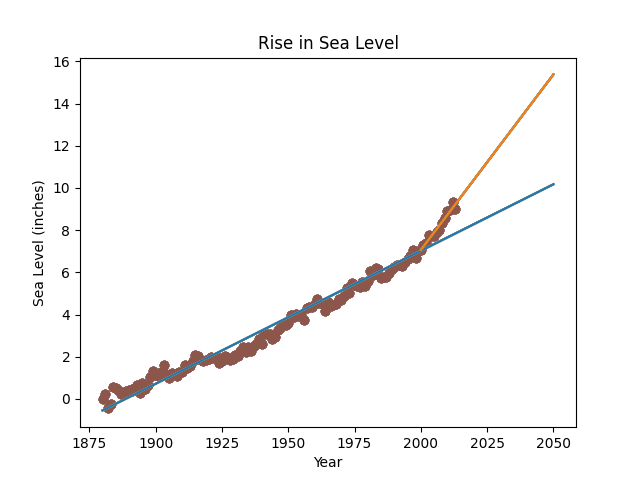
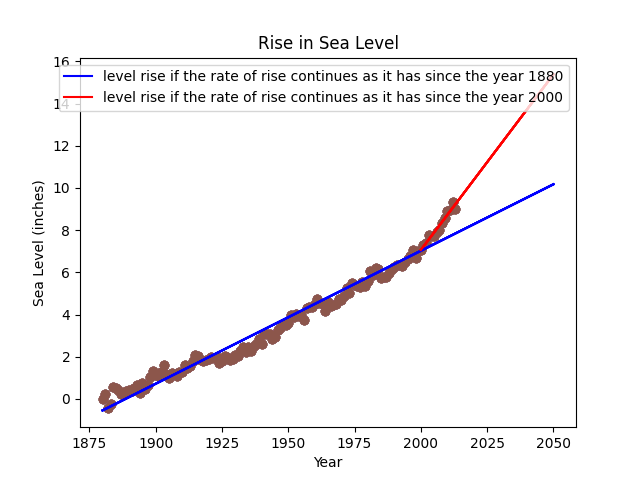
Add the legen to explain each prediction line

diff --git a/sea_level_predictor.py b/sea_level_predictor.py
@@ -22,16 +22,18 @@ def draw_plot():
 
     m, b, r, p, se = linregress(x = df['Year'], y = df['CSIRO Adjusted Sea Level'])
 
-    plt.plot(x['Year'], m*x['Year'] + b)
+    plt.plot(x['Year'], m*x['Year'] + b, 'b')
 
     # Create second line of best fit
     m1, b1, r2, p2, se2 = linregress(x = df['Year'][120:], y = df['CSIRO Adjusted Sea Level'][120:])
 
-    plt.plot(x['Year'][120:], m1*x['Year'][120:] + b1)
+    plt.plot(x['Year'][120:], m1*x['Year'][120:] + b1, 'r')
 
     # Add labels and title
     plt.xlabel('Year')
     plt.ylabel('Sea Level (inches)')
+    plt.legend(['level rise if the rate of rise continues as it has since the year 1880', 
+        'level rise if the rate of rise continues as it has since the year 2000'])
     plt.title('Rise in Sea Level')
     
     # Save plot and return data for testing (DO NOT MODIFY)
